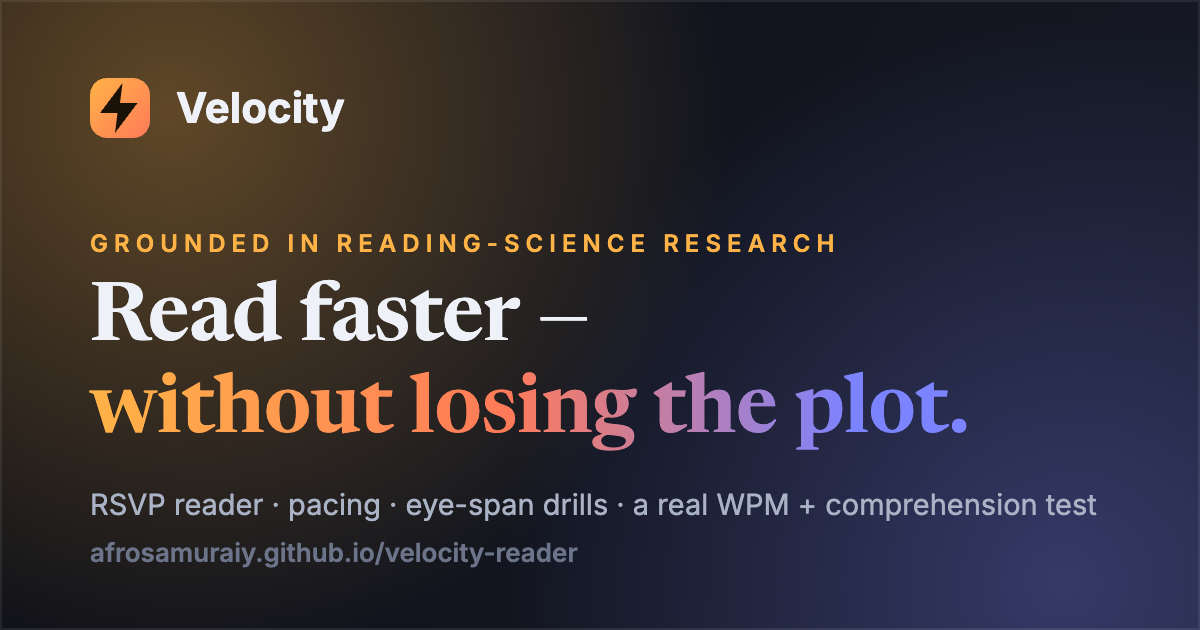
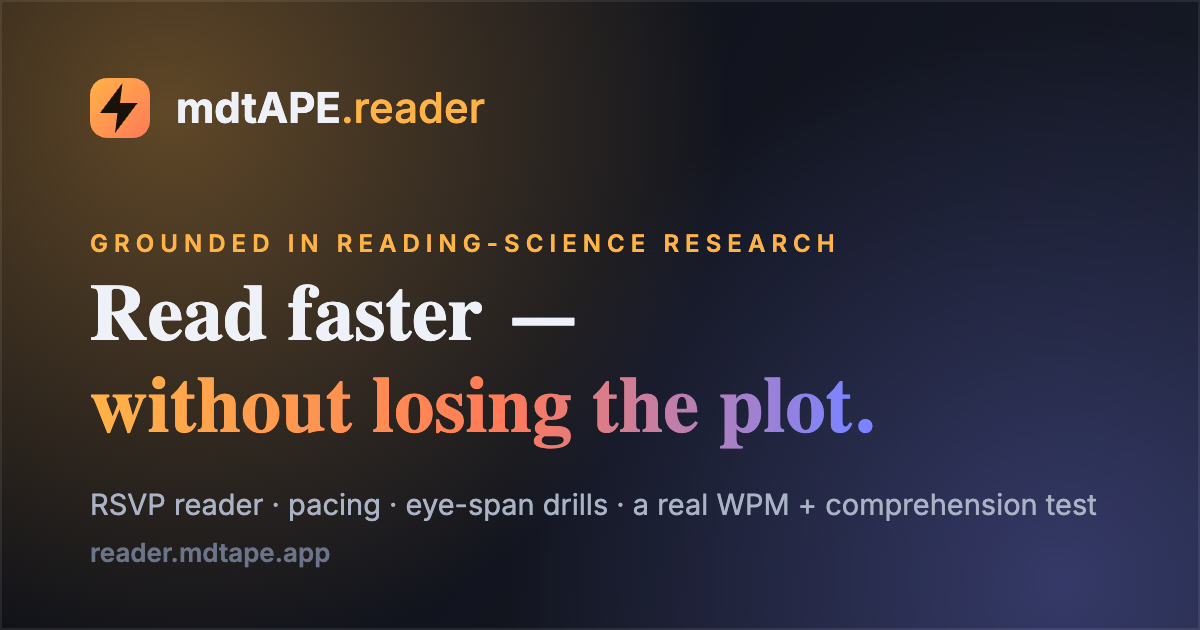
Rename brand Velocity -> mdtAPE.reader
- All 41 references updated (titles, meta, OG/Twitter, JSON-LD, copy,
  legal pages, content bundles)
- Brand wordmark styled as mdtAPE + accent ".reader" (single flex item)
- Regenerated og-image.png with the new wordmark and reader.mdtape.app

diff --git a/de/index.html b/de/index.html
@@ -3,10 +3,10 @@
 <head>
 <meta charset="UTF-8" />
 <meta name="viewport" content="width=device-width, initial-scale=1.0" />
-<title>Velocity — Schneller lesen lernen, wissenschaftlich fundiert</title>
+<title>mdtAPE.reader — Schneller lesen lernen, wissenschaftlich fundiert</title>
 <meta name="description" content="Evidenzbasiertes Schnelllese-Training: RSVP-Reader, Tempo-Übungen, Augenspannen-Training und ein echter WpM- und Verständnistest. Keine Mythen — nur das, was die Forschung stützt." />
 <meta name="keywords" content="schneller lesen, Schnelllesen, Lesegeschwindigkeit testen, Wörter pro Minute, WpM-Test, RSVP, Leseverständnis, Augenspanne, Schulte-Tabelle, schneller lesen lernen" />
-<meta name="author" content="Velocity" />
+<meta name="author" content="mdtAPE.reader" />
 <meta name="robots" content="index, follow, max-image-preview:large, max-snippet:-1" />
 <meta name="theme-color" content="#0c0e14" />
 <meta name="color-scheme" content="dark light" />
@@ -19,26 +19,26 @@
 
 <!-- Open Graph -->
 <meta property="og:type" content="website" />
-<meta property="og:site_name" content="Velocity" />
-<meta property="og:title" content="Velocity — Schneller lesen lernen, wissenschaftlich fundiert" />
+<meta property="og:site_name" content="mdtAPE.reader" />
+<meta property="og:title" content="mdtAPE.reader — Schneller lesen lernen, wissenschaftlich fundiert" />
 <meta property="og:description" content="Ein ehrliches, evidenzbasiertes Lesetraining: RSVP-Reader, Tempo-Übungen, Augenspannen-Training und ein echter WpM- und Verständnistest. Keine 10.000-WpM-Mythen." />
 <meta property="og:url" content="https://reader.mdtape.app/de/" />
 <meta property="og:image" content="https://reader.mdtape.app/og-image.png" />
 <meta property="og:image:width" content="1200" />
 <meta property="og:image:height" content="630" />
-<meta property="og:image:alt" content="Velocity — schneller lesen, ohne den Faden zu verlieren." />
+<meta property="og:image:alt" content="mdtAPE.reader — schneller lesen, ohne den Faden zu verlieren." />
 <meta property="og:locale" content="de_DE" />
 <meta property="og:locale:alternate" content="en_US" />
 
 <!-- Twitter -->
 <meta name="twitter:card" content="summary_large_image" />
-<meta name="twitter:title" content="Velocity — Schneller lesen lernen, wissenschaftlich fundiert" />
+<meta name="twitter:title" content="mdtAPE.reader — Schneller lesen lernen, wissenschaftlich fundiert" />
 <meta name="twitter:description" content="Ein ehrliches, evidenzbasiertes Lesetraining. Teste deine WpM und dein Verständnis und trainiere die Hebel, die die Forschung stützt." />
 <meta name="twitter:image" content="https://reader.mdtape.app/og-image.png" />
 
 <!-- Structured data -->
 <script type="application/ld+json">
-{"@context":"https://schema.org","@type":"WebApplication","name":"Velocity","alternateName":"Velocity Schnelllese-Trainer","url":"https://reader.mdtape.app/de/","description":"Ein ehrliches, evidenzbasiertes Lesetraining mit RSVP-Reader, Tempo-Pacer, Wortgruppen-Training, Schulte-Augenspannen-Gitter und einem echten WpM- und Verständnistest.","applicationCategory":"EducationalApplication","operatingSystem":"Web browser","browserRequirements":"Requires JavaScript","inLanguage":["de","en"],"isAccessibleForFree":true,"offers":{"@type":"Offer","price":"0","priceCurrency":"EUR"}}
+{"@context":"https://schema.org","@type":"WebApplication","name":"mdtAPE.reader","alternateName":"mdtAPE.reader Schnelllese-Trainer","url":"https://reader.mdtape.app/de/","description":"Ein ehrliches, evidenzbasiertes Lesetraining mit RSVP-Reader, Tempo-Pacer, Wortgruppen-Training, Schulte-Augenspannen-Gitter und einem echten WpM- und Verständnistest.","applicationCategory":"EducationalApplication","operatingSystem":"Web browser","browserRequirements":"Requires JavaScript","inLanguage":["de","en"],"isAccessibleForFree":true,"offers":{"@type":"Offer","price":"0","priceCurrency":"EUR"}}
 </script>
 <script type="application/ld+json">
 {"@context":"https://schema.org","@type":"FAQPage","inLanguage":"de","mainEntity":[{"@type":"Question","name":"Sind die Augen beim schnellen Lesen der Engpass?","acceptedAnswer":{"@type":"Answer","text":"Nein. Augenbewegungen machen nur etwa 10% der Lesezeit aus. Die eigentliche Grenze ist, jedes Wort zu erkennen und in die Satzbedeutung einzubinden. Die Augen auf Tempo zu trimmen hat eine niedrige Decke, während Verständnis, Wortschatz und Tempoführung mehr bewirken."}},{"@type":"Question","name":"Kann man 1.000+ Wörter pro Minute mit vollem Verständnis lesen?","acceptedAnswer":{"@type":"Answer","text":"Nein. Es gibt einen echten Tempo-Verständnis-Kompromiss. RSVP-Studien zeigen, dass das Verständnis bis etwa 350 WpM stabil bleibt und dann mit steigendem Tempo abfällt. Deutlich schneller zu lesen wird zum Überfliegen, einer eigenen Fähigkeit."}},{"@type":"Question","name":"Sollte man Subvokalisation abschalten, um schneller zu lesen?","acceptedAnswer":{"@type":"Answer","text":"Nicht vollständig. Die innere Stimme stützt das Verständnis, besonders bei schwierigem Text. Reduziere das vollständige Wort-für-Wort-Mitsprechen, indem du in Gruppen liest und etwas schneller als bequem, statt es zu erzwingen."}},{"@type":"Question","name":"Was sind Rücksprünge und verlangsamen sie das Lesen?","acceptedAnswer":{"@type":"Answer","text":"Rücksprünge sind kleine Rückwärtsbewegungen der Augen zum erneuten Lesen, etwa 10 bis 15% der Sakkaden. Viele sind gewohnheitsmäßig und unnötig, und ein Pacer reduziert sie. Manches Wiederlesen ist bei schwierigem Text aber nötig und sollte nicht verboten werden."}},{"@type":"Question","name":"Was ist der zuverlässigste Weg, schneller zu lesen?","acceptedAnswer":{"@type":"Answer","text":"Übung und Wortschatz. Vertraute Wörter werden fast augenblicklich erkannt, daher bewirken breites tägliches Lesen und ein starker Wortschatz mehr für die Lesegeschwindigkeit als jeder einzelne Trick."}}]}
@@ -61,7 +61,7 @@
       <div class="mark">
         <svg viewBox="0 0 24 24" fill="none" stroke="#1a1206" stroke-width="2.4" stroke-linecap="round" stroke-linejoin="round"><path d="M13 2 4 14h7l-1 8 9-12h-7z"/></svg>
       </div>
-      Velocity
+      <span class="wm">mdtAPE<span class="rd">.reader</span></span>
     </div>
     <nav class="nav-links" id="navLinks">
       <a href="#how">So funktioniert's</a>
@@ -85,7 +85,7 @@
   <div class="wrap">
     <span class="eyebrow reveal"><span class="dot"></span> Fundiert in der Leseforschung</span>
     <h1 class="reveal" data-d="1">Schneller lesen — <span class="grad">ohne den Faden zu verlieren.</span></h1>
-    <p class="lede reveal" data-d="2">Das meiste „Schnelllesen“ ist ein Zaubertrick, der heimlich Verständnis opfert. Velocity trainiert die Teile, die wirklich wirken: Tempoführung, Wortgruppen, weniger Rücksprünge und eine breitere Augenspanne — ehrlich gemessen, Übung für Übung.</p>
+    <p class="lede reveal" data-d="2">Das meiste „Schnelllesen“ ist ein Zaubertrick, der heimlich Verständnis opfert. mdtAPE.reader trainiert die Teile, die wirklich wirken: Tempoführung, Wortgruppen, weniger Rücksprünge und eine breitere Augenspanne — ehrlich gemessen, Übung für Übung.</p>
     <div class="cta-row reveal" data-d="3">
       <a href="#train" class="btn btn-primary">Training starten
         <svg viewBox="0 0 24 24" width="18" fill="none" stroke="currentColor" stroke-width="2.4" stroke-linecap="round" stroke-linejoin="round"><path d="M5 12h14M13 6l6 6-6 6"/></svg>
@@ -97,7 +97,7 @@
     <div class="hero-demo reveal" data-d="3">
       <div class="label">Live-Demo — ein Wort nach dem anderen, Fixpunkt in Bernstein</div>
       <div class="rsvp-stage">
-        <div class="reader-word" id="heroWord"><span>Velocity</span></div>
+        <div class="reader-word" id="heroWord"><span>mdtAPE.reader</span></div>
       </div>
       <div class="demo-meta">
         <span>Das ist <b>RSVP</b> — Rapid Serial Visual Presentation</span>
@@ -416,7 +416,7 @@
         </div>
       </a>
     </div>
-    <p class="partner-tag reveal">Projekte vom Macher von Velocity.</p>
+    <p class="partner-tag reveal">Projekte vom Macher von mdtAPE.reader.</p>
   </div>
 </section>
 
@@ -426,7 +426,7 @@
     <div class="foot-inner">
       <div class="brand">
         <div class="mark"><svg viewBox="0 0 24 24" fill="none" stroke="#1a1206" stroke-width="2.4" stroke-linecap="round" stroke-linejoin="round"><path d="M13 2 4 14h7l-1 8 9-12h-7z"/></svg></div>
-        Velocity
+        <span class="wm">mdtAPE<span class="rd">.reader</span></span>
       </div>
       <p>Ein ehrliches, evidenzbasiertes Lesetraining. Keine 10.000-WpM-Versprechen — nur die Hebel, die die Forschung stützt, jedes Mal am Verständnis gemessen.</p>
     </div>

diff --git a/index.html b/index.html
@@ -3,10 +3,10 @@
 <head>
 <meta charset="UTF-8" />
 <meta name="viewport" content="width=device-width, initial-scale=1.0" />
-<title>Velocity — Learn to Read Faster, Backed by Science</title>
+<title>mdtAPE.reader — Learn to Read Faster, Backed by Science</title>
 <meta name="description" content="Evidence-based speed-reading training: RSVP reader, pacing drills, eye-span trainer, and a real WPM + comprehension test. No myths — just what the research supports." />
 <meta name="keywords" content="speed reading, read faster, reading speed test, words per minute, WPM test, RSVP reader, reading comprehension, eye-span training, Schulte table, learn to read faster" />
-<meta name="author" content="Velocity" />
+<meta name="author" content="mdtAPE.reader" />
 <meta name="robots" content="index, follow, max-image-preview:large, max-snippet:-1" />
 <meta name="theme-color" content="#0c0e14" />
 <meta name="color-scheme" content="dark light" />
@@ -19,26 +19,26 @@
 
 <!-- Open Graph -->
 <meta property="og:type" content="website" />
-<meta property="og:site_name" content="Velocity" />
-<meta property="og:title" content="Velocity — Learn to Read Faster, Backed by Science" />
+<meta property="og:site_name" content="mdtAPE.reader" />
+<meta property="og:title" content="mdtAPE.reader — Learn to Read Faster, Backed by Science" />
 <meta property="og:description" content="An honest, evidence-based speed-reading trainer: RSVP reader, pacing drills, eye-span training, and a real WPM + comprehension test. No 10,000-wpm myths." />
 <meta property="og:url" content="https://reader.mdtape.app/" />
 <meta property="og:image" content="https://reader.mdtape.app/og-image.png" />
 <meta property="og:image:width" content="1200" />
 <meta property="og:image:height" content="630" />
-<meta property="og:image:alt" content="Velocity — read faster, without losing the plot." />
+<meta property="og:image:alt" content="mdtAPE.reader — read faster, without losing the plot." />
 <meta property="og:locale" content="en_US" />
 <meta property="og:locale:alternate" content="de_DE" />
 
 <!-- Twitter -->
 <meta name="twitter:card" content="summary_large_image" />
-<meta name="twitter:title" content="Velocity — Learn to Read Faster, Backed by Science" />
+<meta name="twitter:title" content="mdtAPE.reader — Learn to Read Faster, Backed by Science" />
 <meta name="twitter:description" content="An honest, evidence-based speed-reading trainer. Test your WPM + comprehension, then train the levers research actually supports." />
 <meta name="twitter:image" content="https://reader.mdtape.app/og-image.png" />
 
 <!-- Structured data -->
 <script type="application/ld+json">
-{"@context":"https://schema.org","@type":"WebApplication","name":"Velocity","alternateName":"Velocity Speed Reading Trainer","url":"https://reader.mdtape.app/","description":"An honest, evidence-based speed-reading trainer with an RSVP reader, guided pacer, chunk trainer, Schulte eye-span grid, and a real WPM + comprehension test.","applicationCategory":"EducationalApplication","operatingSystem":"Web browser","browserRequirements":"Requires JavaScript","inLanguage":["en","de"],"isAccessibleForFree":true,"offers":{"@type":"Offer","price":"0","priceCurrency":"USD"}}
+{"@context":"https://schema.org","@type":"WebApplication","name":"mdtAPE.reader","alternateName":"mdtAPE.reader Speed Reading Trainer","url":"https://reader.mdtape.app/","description":"An honest, evidence-based speed-reading trainer with an RSVP reader, guided pacer, chunk trainer, Schulte eye-span grid, and a real WPM + comprehension test.","applicationCategory":"EducationalApplication","operatingSystem":"Web browser","browserRequirements":"Requires JavaScript","inLanguage":["en","de"],"isAccessibleForFree":true,"offers":{"@type":"Offer","price":"0","priceCurrency":"USD"}}
 </script>
 <script type="application/ld+json">
 {"@context":"https://schema.org","@type":"FAQPage","inLanguage":"en","mainEntity":[{"@type":"Question","name":"Are your eyes the bottleneck when reading fast?","acceptedAnswer":{"@type":"Answer","text":"No. Eye movements account for only about 10% of reading time. The real limit is recognizing each word and integrating it into a sentence's meaning, so training eye speed has a low ceiling while comprehension, vocabulary and pacing matter more."}},{"@type":"Question","name":"Can you read 1,000+ words per minute with full comprehension?","acceptedAnswer":{"@type":"Answer","text":"No. There is a real speed-comprehension trade-off. RSVP studies show comprehension holding up to about 350 wpm and then dropping as speed rises. Reading much faster than that becomes skimming, which is a separate skill."}},{"@type":"Question","name":"Should you eliminate subvocalization to read faster?","acceptedAnswer":{"@type":"Answer","text":"Not entirely. The inner voice supports comprehension, especially for difficult text. Reduce full word-by-word subvocalization by reading in chunks and pacing slightly faster than comfortable, rather than forcing it off."}},{"@type":"Question","name":"What are regressions and do they slow reading?","acceptedAnswer":{"@type":"Answer","text":"Regressions are small backward eye-jumps to reread, around 10 to 15% of eye movements. Many are habitual and unnecessary, and a pacer reduces them, but some rereading is genuinely needed for hard text so it should not be banned."}},{"@type":"Question","name":"What is the most reliable way to read faster?","acceptedAnswer":{"@type":"Answer","text":"Practice and vocabulary. Familiar words are recognized almost instantly, so broad daily reading and a strong vocabulary do more for reading speed than any single technique or trick."}}]}
@@ -61,7 +61,7 @@
       <div class="mark">
         <svg viewBox="0 0 24 24" fill="none" stroke="#1a1206" stroke-width="2.4" stroke-linecap="round" stroke-linejoin="round"><path d="M13 2 4 14h7l-1 8 9-12h-7z"/></svg>
       </div>
-      Velocity
+      <span class="wm">mdtAPE<span class="rd">.reader</span></span>
     </div>
     <nav class="nav-links" id="navLinks">
       <a href="#how">How it works</a>
@@ -85,7 +85,7 @@
   <div class="wrap">
     <span class="eyebrow reveal"><span class="dot"></span> Grounded in reading-science research</span>
     <h1 class="reveal" data-d="1">Read faster — <span class="grad">without losing the plot.</span></h1>
-    <p class="lede reveal" data-d="2">Most "speed reading" is a magic trick that quietly trades away comprehension. Velocity teaches the parts that actually work: pacing, chunking, fewer regressions, and a wider eye-span — measured honestly, drill by drill.</p>
+    <p class="lede reveal" data-d="2">Most "speed reading" is a magic trick that quietly trades away comprehension. mdtAPE.reader teaches the parts that actually work: pacing, chunking, fewer regressions, and a wider eye-span — measured honestly, drill by drill.</p>
     <div class="cta-row reveal" data-d="3">
       <a href="#train" class="btn btn-primary">Start training
         <svg viewBox="0 0 24 24" width="18" fill="none" stroke="currentColor" stroke-width="2.4" stroke-linecap="round" stroke-linejoin="round"><path d="M5 12h14M13 6l6 6-6 6"/></svg>
@@ -97,7 +97,7 @@
     <div class="hero-demo reveal" data-d="3">
       <div class="label">Live demo — one word at a time, focal point in amber</div>
       <div class="rsvp-stage">
-        <div class="reader-word" id="heroWord"><span>Velocity</span></div>
+        <div class="reader-word" id="heroWord"><span>mdtAPE.reader</span></div>
       </div>
       <div class="demo-meta">
         <span>This is <b>RSVP</b> — Rapid Serial Visual Presentation</span>
@@ -416,7 +416,7 @@
         </div>
       </a>
     </div>
-    <p class="partner-tag reveal">Projects by the maker of Velocity.</p>
+    <p class="partner-tag reveal">Projects by the maker of mdtAPE.reader.</p>
   </div>
 </section>
 
@@ -426,7 +426,7 @@
     <div class="foot-inner">
       <div class="brand">
         <div class="mark"><svg viewBox="0 0 24 24" fill="none" stroke="#1a1206" stroke-width="2.4" stroke-linecap="round" stroke-linejoin="round"><path d="M13 2 4 14h7l-1 8 9-12h-7z"/></svg></div>
-        Velocity
+        <span class="wm">mdtAPE<span class="rd">.reader</span></span>
       </div>
       <p>An honest, evidence-based reading trainer. No 10,000-wpm promises — just the levers research actually supports, measured against comprehension every time.</p>
     </div>

diff --git a/datenschutz.html b/datenschutz.html
@@ -3,8 +3,8 @@
 <head>
 <meta charset="UTF-8" />
 <meta name="viewport" content="width=device-width, initial-scale=1.0" />
-<title>Datenschutzerklärung — Velocity</title>
-<meta name="description" content="Datenschutzerklärung für Velocity: Hosting, Schriftarten, lokale Speicherung, Cookies, externe Links und deine Rechte nach DSGVO." />
+<title>Datenschutzerklärung — mdtAPE.reader</title>
+<meta name="description" content="Datenschutzerklärung für mdtAPE.reader: Hosting, Schriftarten, lokale Speicherung, Cookies, externe Links und deine Rechte nach DSGVO." />
 <meta name="robots" content="noindex, follow" />
 <meta name="theme-color" content="#0c0e14" />
 <link rel="canonical" href="https://reader.mdtape.app/datenschutz.html" />
@@ -20,7 +20,7 @@
   <div class="wrap nav-inner">
     <a class="brand" href="index.html" style="text-decoration:none;color:inherit">
       <div class="mark"><svg viewBox="0 0 24 24" fill="none" stroke="#1a1206" stroke-width="2.4" stroke-linecap="round" stroke-linejoin="round"><path d="M13 2 4 14h7l-1 8 9-12h-7z"/></svg></div>
-      Velocity
+      <span class="wm">mdtAPE<span class="rd">.reader</span></span>
     </a>
     <nav class="nav-links">
       <a href="impressum.html">Impressum</a>
@@ -35,7 +35,7 @@
   <h1>Datenschutzerklärung</h1>
   <p class="updated">Stand: Juni 2026</p>
 
-  <p>Der Schutz deiner personenbezogenen Daten ist uns wichtig. Velocity ist bewusst datensparsam aufgebaut: Es gibt keine Benutzerkonten, keine Cookies, kein Tracking und keine Werbung. Nachfolgend informieren wir dich darüber, welche Daten beim Besuch dieser Website verarbeitet werden.</p>
+  <p>Der Schutz deiner personenbezogenen Daten ist uns wichtig. mdtAPE.reader ist bewusst datensparsam aufgebaut: Es gibt keine Benutzerkonten, keine Cookies, kein Tracking und keine Werbung. Nachfolgend informieren wir dich darüber, welche Daten beim Besuch dieser Website verarbeitet werden.</p>
 
   <h2>1. Verantwortlicher</h2>
   <p>Verantwortlich für die Datenverarbeitung auf dieser Website im Sinne der Datenschutz-Grundverordnung (DSGVO) ist:</p>
@@ -59,7 +59,7 @@
   <p>Zur einheitlichen Darstellung von Schriften nutzt diese Website <strong>Bunny Fonts</strong>, einen Dienst der BunnyWay d.o.o., Cesta komandanta Staneta 4A, 1215 Medvode, Slowenien. Bunny Fonts ist eine datenschutzfreundliche Alternative zu Google Fonts. Nach Angaben des Anbieters werden dabei <strong>keine IP-Adressen der Besucher gespeichert oder protokolliert, keine Cookies gesetzt</strong> und es findet keine Datenübermittlung in Drittländer statt; die Auslieferung erfolgt über Server innerhalb der EU. Rechtsgrundlage ist unser berechtigtes Interesse an einer ansprechenden Darstellung (Art. 6 Abs. 1 lit. f DSGVO). Weitere Informationen: <a href="https://bunny.net/privacy" target="_blank" rel="noopener">bunny.net/privacy</a>.</p>
 
   <h2>5. Lokale Speicherung im Browser (Local Storage)</h2>
-  <p>Velocity speichert bestimmte Angaben ausschließlich lokal in deinem Browser (über die Technik „localStorage“), um die Funktion der Anwendung zu ermöglichen. Dies betrifft insbesondere:</p>
+  <p>mdtAPE.reader speichert bestimmte Angaben ausschließlich lokal in deinem Browser (über die Technik „localStorage“), um die Funktion der Anwendung zu ermöglichen. Dies betrifft insbesondere:</p>
   <ul>
     <li>deine gewählte Darstellung (helles oder dunkles Design),</li>
     <li>deine Testergebnisse und Trainingsfortschritte (z. B. Lesegeschwindigkeit, Verständnis, Schulte-Zeiten).</li>
@@ -103,7 +103,7 @@
     <div class="foot-inner">
       <a class="brand" href="index.html" style="text-decoration:none;color:inherit">
         <div class="mark"><svg viewBox="0 0 24 24" fill="none" stroke="#1a1206" stroke-width="2.4" stroke-linecap="round" stroke-linejoin="round"><path d="M13 2 4 14h7l-1 8 9-12h-7z"/></svg></div>
-        Velocity
+        <span class="wm">mdtAPE<span class="rd">.reader</span></span>
       </a>
       <p>Ein ehrliches, evidenzbasiertes Lesetraining.</p>
     </div>

diff --git a/impressum.html b/impressum.html
@@ -3,8 +3,8 @@
 <head>
 <meta charset="UTF-8" />
 <meta name="viewport" content="width=device-width, initial-scale=1.0" />
-<title>Impressum — Velocity</title>
-<meta name="description" content="Impressum und Anbieterkennzeichnung gemäß § 5 DDG für Velocity." />
+<title>Impressum — mdtAPE.reader</title>
+<meta name="description" content="Impressum und Anbieterkennzeichnung gemäß § 5 DDG für mdtAPE.reader." />
 <meta name="robots" content="noindex, follow" />
 <meta name="theme-color" content="#0c0e14" />
 <link rel="canonical" href="https://reader.mdtape.app/impressum.html" />
@@ -20,7 +20,7 @@
   <div class="wrap nav-inner">
     <a class="brand" href="index.html" style="text-decoration:none;color:inherit">
       <div class="mark"><svg viewBox="0 0 24 24" fill="none" stroke="#1a1206" stroke-width="2.4" stroke-linecap="round" stroke-linejoin="round"><path d="M13 2 4 14h7l-1 8 9-12h-7z"/></svg></div>
-      Velocity
+      <span class="wm">mdtAPE<span class="rd">.reader</span></span>
     </a>
     <nav class="nav-links">
       <a href="datenschutz.html">Datenschutz</a>
@@ -58,7 +58,7 @@
   <p>Eugen Koslowski, Anschrift wie oben.</p>
 
   <h2>Art des Angebots</h2>
-  <p>Velocity ist ein kostenloses, werbefreies Lerntool zum schnelleren Lesen. Es werden keine Produkte verkauft und keine kostenpflichtigen Dienste angeboten. Die auf der Startseite verlinkten Projekte (mdtAPE, Coach Evgenij) sind eigene bzw. partnerschaftlich verbundene Angebote des Betreibers.</p>
+  <p>mdtAPE.reader ist ein kostenloses, werbefreies Lerntool zum schnelleren Lesen. Es werden keine Produkte verkauft und keine kostenpflichtigen Dienste angeboten. Die auf der Startseite verlinkten Projekte (mdtAPE, Coach Evgenij) sind eigene bzw. partnerschaftlich verbundene Angebote des Betreibers.</p>
 
   <hr/>
 
@@ -83,7 +83,7 @@
     <div class="foot-inner">
       <a class="brand" href="index.html" style="text-decoration:none;color:inherit">
         <div class="mark"><svg viewBox="0 0 24 24" fill="none" stroke="#1a1206" stroke-width="2.4" stroke-linecap="round" stroke-linejoin="round"><path d="M13 2 4 14h7l-1 8 9-12h-7z"/></svg></div>
-        Velocity
+        <span class="wm">mdtAPE<span class="rd">.reader</span></span>
       </a>
       <p>Ein ehrliches, evidenzbasiertes Lesetraining.</p>
     </div>

diff --git a/content.de.js b/content.de.js
@@ -1,4 +1,4 @@
-/* Velocity — Deutsches Inhaltspaket. Wird vor app.js geladen. */
+/* mdtAPE.reader — Deutsches Inhaltspaket. Wird vor app.js geladen. */
 window.VELO_CONTENT = {
   lang: 'de',
 
@@ -77,5 +77,5 @@ Die Pilze sind keine Wohltäter. Im Tausch gegen den Zucker, den die Bäume durc
     clearConfirm: 'Alle gespeicherten Tests und Ergebnisse auf diesem Gerät löschen?'
   },
 
-  heroLoop: 'Velocity bringt dir bei, schneller zu lesen, ohne heimlich an Verständnis zu verlieren. Sieh, wie ein Wort nach dem anderen deine Augen ruhig hält.'
+  heroLoop: 'mdtAPE.reader bringt dir bei, schneller zu lesen, ohne heimlich an Verständnis zu verlieren. Sieh, wie ein Wort nach dem anderen deine Augen ruhig hält.'
 };

diff --git a/content.en.js b/content.en.js
@@ -1,4 +1,4 @@
-/* Velocity — English content bundle. Loaded before app.js. */
+/* mdtAPE.reader — English content bundle. Loaded before app.js. */
 window.VELO_CONTENT = {
   lang: 'en',
 
@@ -77,5 +77,5 @@ The fungi are not charities. In exchange for sugars the trees make through photo
     clearConfirm: 'Clear all saved tests and scores on this device?'
   },
 
-  heroLoop: 'Velocity teaches you to read faster without quietly losing comprehension. Watch how one word at a time keeps your eyes perfectly still.'
+  heroLoop: 'mdtAPE.reader teaches you to read faster without quietly losing comprehension. Watch how one word at a time keeps your eyes perfectly still.'
 };

diff --git a/app.js b/app.js
@@ -1,5 +1,5 @@
 /* =========================================================================
-   Velocity — app logic (language-agnostic engine)
+   mdtAPE.reader — app logic (language-agnostic engine)
    Reads all copy + passages from window.VELO_CONTENT (content.<lang>.js).
    Plain vanilla JS, no build step. Runs from file:// directly.
    ========================================================================= */

diff --git a/styles.css b/styles.css
@@ -105,6 +105,7 @@ header.nav {
   height: 64px;
 }
 .brand { display: flex; align-items: center; gap: 11px; font-weight: 700; letter-spacing: -0.02em; font-size: 1.12rem; }
+.brand .rd { color: var(--accent); font-weight: 500; }
 .brand .mark {
   width: 30px; height: 30px; border-radius: 9px;
   background: linear-gradient(135deg, var(--accent), var(--accent-2));

diff --git a/README.md b/README.md
@@ -1,4 +1,4 @@
-# Velocity — Learn to Read Faster
+# mdtAPE.reader — Learn to Read Faster
 
 An honest, evidence-based speed-reading web app. No "10,000 wpm" promises — it
 teaches only the levers reading-science research actually supports, and measures